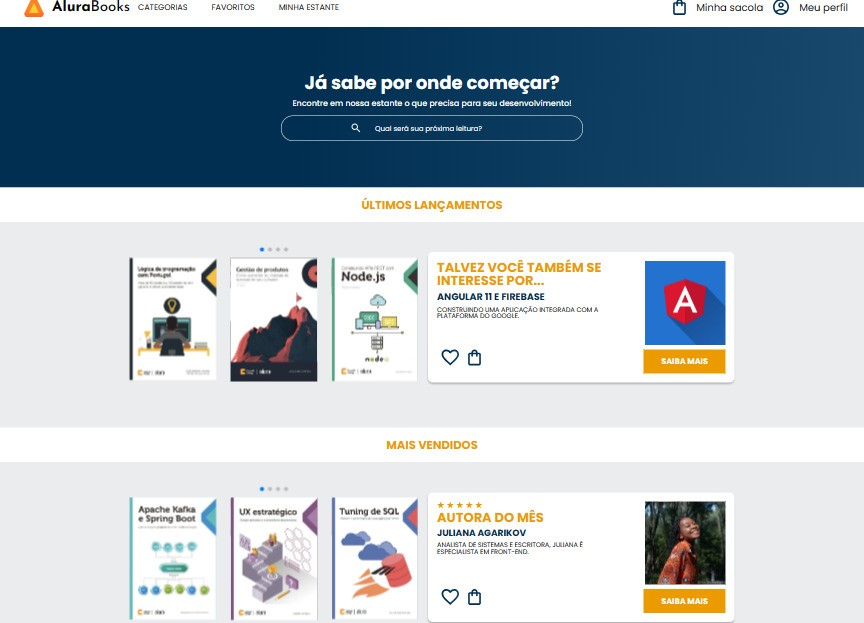
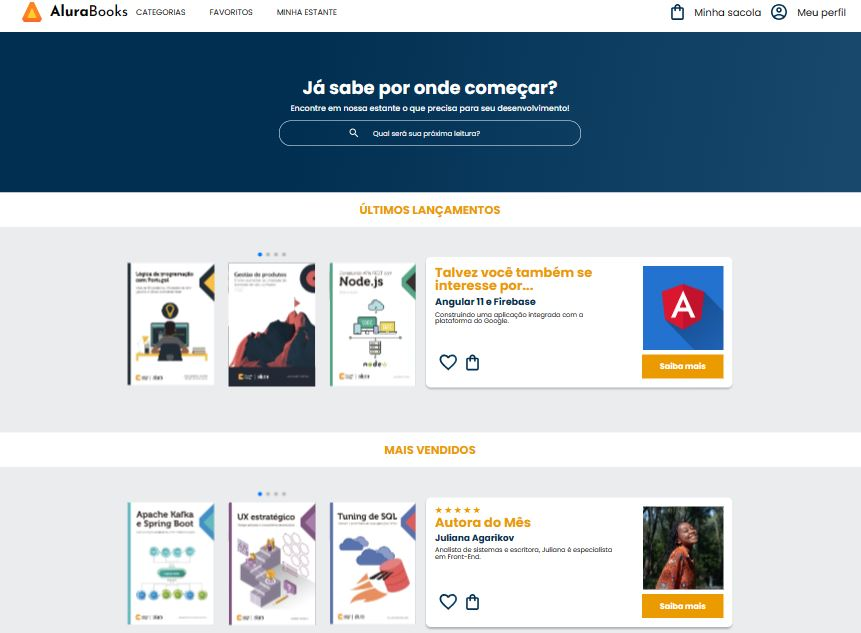
git commit

diff --git a/styles/carrossel.css b/styles/carrossel.css
@@ -1,6 +1,4 @@
 .carrossel {
-    
-    text-transform: uppercase;
     color: var(--color-font-box);
     font-weight: 700;
     font-size: 18px;

diff --git a/README.md b/README.md
@@ -13,7 +13,7 @@ Projeto promovido pela Alura de ensino de tecnologias WEB.
 <br>
 
 <p align="center">
-  <img alt="Projeto" src="./assets/imgdesktop.jpg" width="100%">
+  <img alt="Projeto" src="./" width="100%">
 </p>
 
 ## 🚀 Tecnologias
